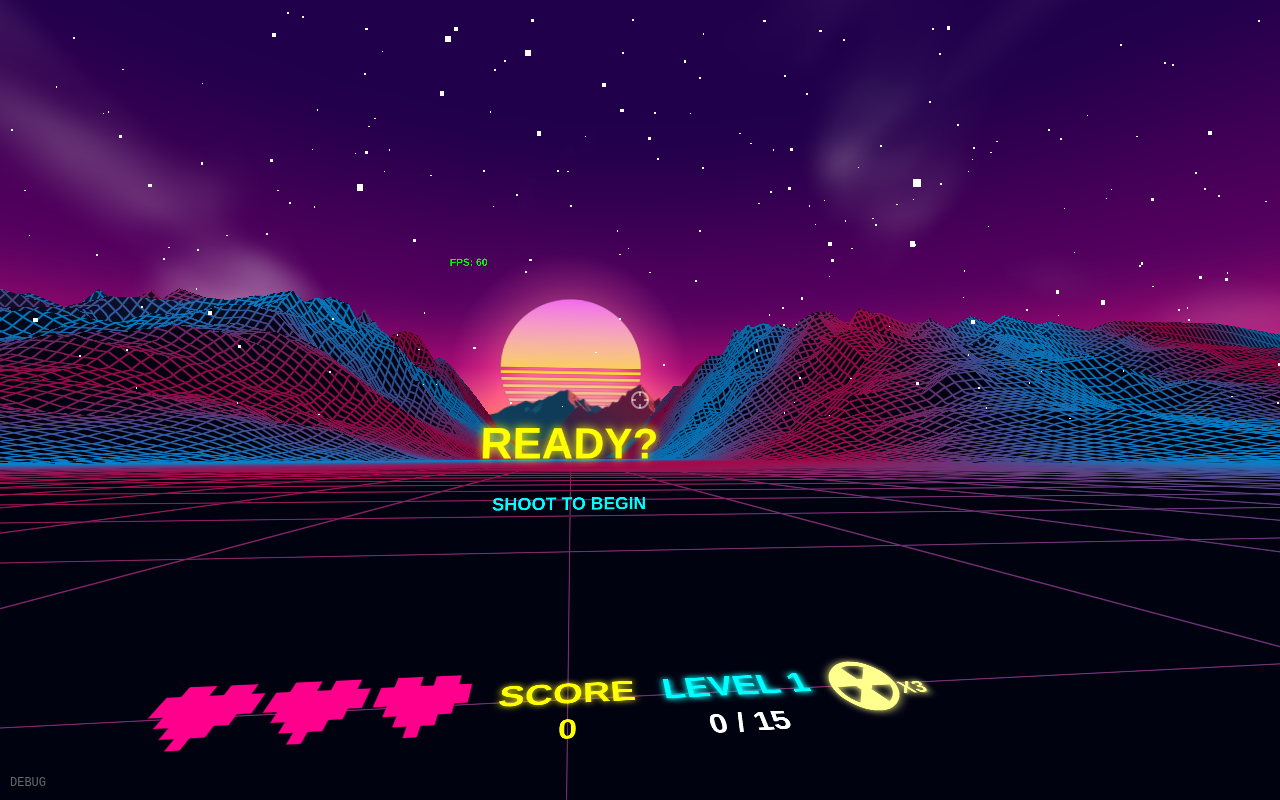
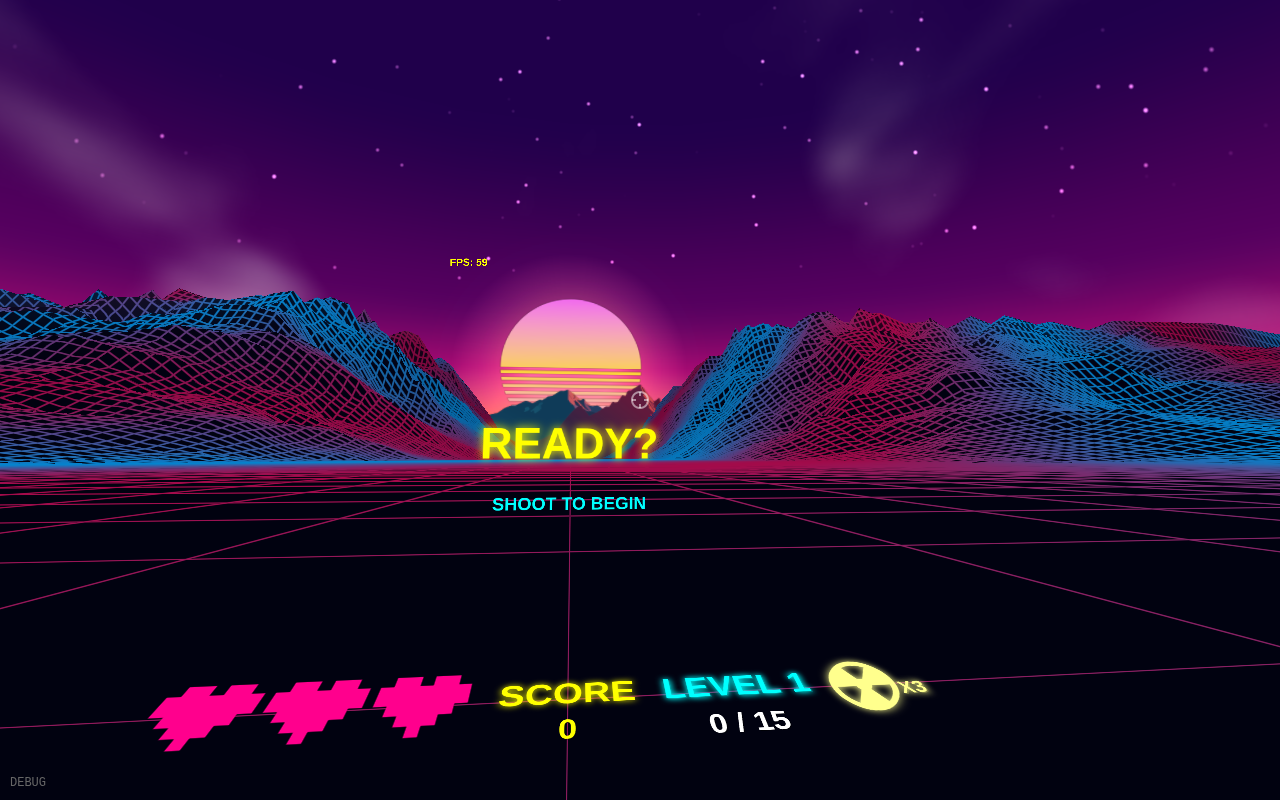
fix: Star rebuild on biome change, sphere cleanup, desert edges, name all spheres
1. Stars: rebuildStars() now called on biome change in applyThemeForLevel()
2. Spheres: explosion pool fully cleared between levels, reinitialized fresh
3. Desert: restored EdgesGeometry(geometry,14) pink wireframe outlines
4. Named all 37 SphereGeometry objects in main.js

Puppeteer: 0 page errors

Changed region(s): [[0.75, 0.5312, 1.0, 0.625], [0.2812, 0.5625, 0.3125, 0.5938], [0.125, 0.5625, 0.1562, 0.5938]]

diff --git a/main.js b/main.js
@@ -381,6 +381,7 @@ function initExplosionPool(scene) {
       depthWrite: false, blending: THREE.AdditiveBlending,
     });
     const mesh = new THREE.Mesh(_explosionGeo, mat);
+    mesh.name = `explosion-pool-${i}`;
     mesh.visible = false;
     mesh.renderOrder = 900;
     scene.add(mesh);
@@ -1955,6 +1956,13 @@ function applyThemeForLevel(level) {
     floorMaterial.__fadeBase = floorMaterial.opacity;
   }
 
+  // Rebuild stars when biome changes (sparkling stars for synthwave, simple stars for others)
+  const biomeId = getBiomeForLevel(level);
+  if (biomeId !== starsBiomeId) {
+    rebuildStars(theme);
+    starsBiomeId = biomeId;
+  }
+
   rebuildBiomeScene(biome, theme);
   applyBiomeLighting(biome);
 
@@ -3227,6 +3235,7 @@ function fireShield(controller, index, hand, altWeapon) {
     blending: THREE.AdditiveBlending,
   });
   const shieldMesh = new THREE.Mesh(shieldGeo, shieldMat);
+    shieldMesh.name = 'shield-energy';
   shieldMesh.position.copy(playerPos);
   shieldMesh.renderOrder = 500;
   scene.add(shieldMesh);
@@ -3391,9 +3400,11 @@ function spawnSingleLaserMine(position, hand, altWeapon) {
     side: THREE.BackSide,
   });
   const glowMesh = new THREE.Mesh(glowGeo, glowMat);
+  glowMesh.name = 'laser-mine-glow';
   glowMesh.position.copy(position);
   glowMesh.renderOrder = 399;
   scene.add(glowMesh);
+    glowMesh.name = 'laser-mine-glow';
 
   const now = performance.now();
 
@@ -3590,6 +3601,7 @@ function fireDecoy(origin, hand, altWeapon) {
     wireframe: true,
   });
   const body = new THREE.Mesh(bodyGeo, bodyMat);
+    body.name = 'decoy-body';
   decoyGroup.add(body);
 
   // Static overlay - glitchy particles
@@ -3620,6 +3632,7 @@ function fireDecoy(origin, hand, altWeapon) {
   });
   const glow = new THREE.Mesh(glowGeo, glowMat);
   decoyGroup.add(glow);
+    glow.name = 'decoy-glow';
 
   decoyGroup.position.copy(origin);
   decoyGroup.position.y = Math.max(0.5, origin.y);  // Ensure above ground
@@ -3756,6 +3769,7 @@ function fireBlackHole(origin, direction, hand, altWeapon) {
     opacity: 0.9,
   });
   const mine = new THREE.Mesh(mineGeo, mineMat);
+    mine.name = 'black-hole-mine';
 
   // Add glow
   const glowGeo = new THREE.SphereGeometry(0.25, 8, 8);
@@ -3765,6 +3779,7 @@ function fireBlackHole(origin, direction, hand, altWeapon) {
     side: THREE.BackSide,
   });
   const glow = new THREE.Mesh(glowGeo, glowMat);
+  glow.name = 'black-hole-mine';
   mine.add(glow);
 
   mine.position.copy(origin);
@@ -3933,6 +3948,7 @@ function triggerBlackHole(mine, mineIndex) {
     opacity: 0.9,
   });
   const core = new THREE.Mesh(coreGeo, coreMat);
+  core.name = 'black-hole-core';
   bhGroup.add(core);
 
   // Outer ring - purple vortex
@@ -3943,6 +3959,7 @@ function triggerBlackHole(mine, mineIndex) {
     side: THREE.DoubleSide,
   });
   const ring = new THREE.Mesh(ringGeo, ringMat);
+  ring.name = 'black-hole-core';
   ring.rotation.x = Math.PI / 2;
   bhGroup.add(ring);
 
@@ -3986,6 +4003,7 @@ function triggerBlackHole(mine, mineIndex) {
     side: THREE.BackSide,
   });
   const glow = new THREE.Mesh(glowGeo, glowMat);
+  glow.name = 'black-hole-mine-glow';
   bhGroup.add(glow);
 
   bhGroup.position.copy(mine.mesh.position);
@@ -4079,6 +4097,7 @@ function fireNaniteSwarm(origin, hand, altWeapon) {
     blending: THREE.AdditiveBlending,
   });
   const core = new THREE.Mesh(coreGeo, coreMat);
+  core.name = 'nanite-swarm-core';
   swarmGroup.add(core);
 
   // Outer glow sphere
@@ -4090,6 +4109,7 @@ function fireNaniteSwarm(origin, hand, altWeapon) {
     blending: THREE.AdditiveBlending,
   });
   const glow = new THREE.Mesh(glowGeo, glowMat);
+  glow.name = 'nanite-swarm-core';
   swarmGroup.add(glow);
 
   // Glitter particles - golden sparkles
@@ -4103,6 +4123,7 @@ function fireNaniteSwarm(origin, hand, altWeapon) {
       blending: THREE.AdditiveBlending,
     });
     const particle = new THREE.Mesh(particleGeo, particleMat);
+    particle.name = 'nanite-swarm-particle';
 
     // Random position within sphere
     const theta = Math.random() * Math.PI * 2;
@@ -4358,6 +4379,7 @@ function fireTetherHarpoon(origin, direction, hand, altWeapon) {
       opacity: 0.7,
     });
     const particle = new THREE.Mesh(particleGeo, particleMat);
+    particle.name = 'tether-particle';
     particle.userData.offset = i / particleCount;
     particle.userData.speed = 1 + Math.random();
     tetherGroup.add(particle);
@@ -4556,6 +4578,7 @@ function firePhaseDash(controller, index, hand, altWeapon, origin, direction) {
     blending: THREE.AdditiveBlending,
   });
   const shell = new THREE.Mesh(shellGeo, shellMat);
+    shell.name = 'phase-dash-shell';
   afterimageGroup.add(shell);
 
   // Pixel dissolution effect (small cubes)
@@ -4751,6 +4774,7 @@ function fireReflectorDrone(origin, hand, altWeapon) {
     opacity: 0.8,
   });
   const core = new THREE.Mesh(coreGeo, coreMat);
+  core.name = 'reflector-drone-core';
   droneGroup.add(core);
 
   // Shimmering shield effect (semi-transparent sphere)
@@ -4763,6 +4787,7 @@ function fireReflectorDrone(origin, hand, altWeapon) {
     depthWrite: false,
   });
   const shield = new THREE.Mesh(shieldGeo, shieldMat);
+  shield.name = 'reflector-drone-core';
   droneGroup.add(shield);
 
   // Orbiting particles
@@ -4775,6 +4800,7 @@ function fireReflectorDrone(origin, hand, altWeapon) {
       opacity: 0.7,
     });
     const particle = new THREE.Mesh(particleGeo, particleMat);
+    particle.name = 'reflector-drone-particle';
     particle.userData.orbitAngle = (i / particleCount) * Math.PI * 2;
     particle.userData.orbitRadius = 0.25;
     droneGroup.add(particle);
@@ -4986,6 +5012,7 @@ function spawnReflectedProjectile(origin) {
     opacity: 0.9,
   });
   const reflectedProj = new THREE.Mesh(reflectedGeo, reflectedMat);
+    reflectedProj.name = 'reflected-projectile';
   reflectedProj.position.copy(origin);
   reflectedProj.userData.velocity = direction.clone().multiplyScalar(30);
   reflectedProj.userData.createdAt = performance.now();
@@ -5024,6 +5051,7 @@ function fireStasisField(origin, direction, hand, altWeapon) {
     blending: THREE.AdditiveBlending,
   });
   const mesh = new THREE.Mesh(geometry, material);
+  mesh.name = 'stasis-field';
   mesh.position.copy(targetPosition);
   scene.add(mesh);
 
@@ -5038,6 +5066,7 @@ function fireStasisField(origin, direction, hand, altWeapon) {
       blending: THREE.AdditiveBlending,
     });
     const particle = new THREE.Mesh(particleGeo, particleMat);
+    particle.name = 'stasis-field-particle';
 
     // Random position on sphere surface
     const theta = Math.random() * Math.PI * 2;
@@ -5109,6 +5138,7 @@ function firePlasmaOrb(origin, direction, hand, altWeapon) {
   });
   const mesh = new THREE.Mesh(geometry, material);
   mesh.position.copy(origin);
+    mesh.name = 'stasis-field';
   scene.add(mesh);
 
   // Add glow trail (smaller trailing spheres)
@@ -5122,6 +5152,7 @@ function firePlasmaOrb(origin, direction, hand, altWeapon) {
       blending: THREE.AdditiveBlending,
     });
     const trail = new THREE.Mesh(trailGeo, trailMat);
+    trail.name = 'plasma-trail';
     trail.position.copy(origin);
     trail.visible = false;
     scene.add(trail);
@@ -5319,6 +5350,7 @@ function fireGrenade(origin, direction, hand, altWeapon) {
     opacity: 0.9,
   });
   const grenade = new THREE.Mesh(grenadeGeo, grenadeMat);
+    grenade.name = 'grenade';
 
   // Add glow
   const glowGeo = new THREE.SphereGeometry(0.15, 8, 8);
@@ -5328,6 +5360,7 @@ function fireGrenade(origin, direction, hand, altWeapon) {
     side: THREE.BackSide,
   });
   const glow = new THREE.Mesh(glowGeo, glowMat);
+  glow.name = 'grenade';
   grenade.add(glow);
 
   grenade.position.copy(origin);
@@ -5449,6 +5482,7 @@ function fireProximityMine(origin, hand, altWeapon) {
     side: THREE.BackSide,
   });
   const glow = new THREE.Mesh(glowGeo, glowMat);
+  glow.name = 'proximity-mine-glow';
   mine.add(glow);
 
   // Place at ground level
@@ -5594,6 +5628,7 @@ function fireAttackDrone(origin, hand, altWeapon) {
     opacity: 0.8,
   });
   const core = new THREE.Mesh(coreGeo, coreMat);
+  core.name = 'attack-drone-core';
   droneGroup.add(core);
 
   // Outer glow
@@ -5604,6 +5639,7 @@ function fireAttackDrone(origin, hand, altWeapon) {
     side: THREE.BackSide,
   });
   const glow = new THREE.Mesh(glowGeo, glowMat);
+  glow.name = 'attack-drone-core';
   droneGroup.add(glow);
 
   // Position at player location
@@ -5688,6 +5724,7 @@ function updateAttackDrones(now, dt, playerPos) {
           opacity: 0.8,
         });
         const proj = new THREE.Mesh(projGeo, projMat);
+        proj.name = 'drone-projectile';
         proj.position.copy(drone.mesh.position);
         proj.userData.velocity = direction.clone().multiplyScalar(25);
         proj.userData.createdAt = now;
@@ -5837,6 +5874,7 @@ function fireTeleport(origin, direction, hand, altWeapon) {
     blending: THREE.AdditiveBlending,
   });
   const startEffect = new THREE.Mesh(startEffectGeo, startEffectMat);
+    startEffect.name = 'teleport-start-effect';
   startEffect.position.copy(playerPos);
   scene.add(startEffect);
 
@@ -5856,6 +5894,7 @@ function fireTeleport(origin, direction, hand, altWeapon) {
     blending: THREE.AdditiveBlending,
   });
   const endEffect = new THREE.Mesh(endEffectGeo, endEffectMat);
+    endEffect.name = 'teleport-end-effect';
   endEffect.position.copy(destination);
   scene.add(endEffect);
 
@@ -6359,11 +6398,16 @@ function clearAllAltWeaponEffects() {
   }
   explosionVisuals.length = 0;
 
-  // Deactivate all pooled explosion spheres (level transition safety)
-  for (let i = 0; i < EXPLOSION_POOL_SIZE; i++) {
-    explosionPool[i].active = false;
-    explosionPool[i].mesh.visible = false;
+  // Remove explosion pool meshes from scene and clear pool, then reinitialize
+  for (let i = 0; i < explosionPool.length; i++) {
+    if (explosionPool[i].mesh.parent) {
+      explosionPool[i].mesh.parent.remove(explosionPool[i].mesh);
+    }
+    disposeMesh(explosionPool[i].mesh);
   }
+  explosionPool.length = 0;
+  // Reinitialize pool with fresh meshes for the new level
+  if (scene) initExplosionPool(scene);
 
   // Clear active voxels
   for (let i = activeVoxels.length - 1; i >= 0; i--) {
@@ -6755,6 +6799,7 @@ function initProjectilePool() {
   const buckMat = createProjectileMaterial(0xffffff);
   registerPlayerProjectileMaterial(buckMat);
   const buckIM = new THREE.InstancedMesh(buckGeo, buckMat, 40);
+  buckIM.name = 'buckshot-instanced';
   buckIM.instanceMatrix.setUsage(THREE.DynamicDrawUsage);
   buckIM.count = 0;
   buckIM.frustumCulled = false;
@@ -7371,6 +7416,7 @@ function updateChargeVisuals(controller, index, progress) {
       depthWrite: false,
     });
     const glowSphere = new THREE.Mesh(glowGeo, glowMat);
+    glowSphere.name = 'charge-glow-sphere';
     glowSphere.position.set(0, 0, -0.1);  // In front of controller
     controller.add(glowSphere);
     chargeGlowSpheres[index] = glowSphere;
@@ -7387,6 +7433,7 @@ function updateChargeVisuals(controller, index, progress) {
         depthWrite: false,
       });
       const particle = new THREE.Mesh(particleGeo, particleMat);
+      particle.name = 'charge-particle';
       particle.userData.orbitAngle = (i / particleCount) * Math.PI * 2;
       particle.userData.orbitRadius = 0.08;
       particleGroup.add(particle);
@@ -8124,6 +8171,7 @@ if (typeof window !== 'undefined') {
       opacity: 0.7
     });
     const decoy = new THREE.Mesh(decoyGeo, decoyMat);
+    decoy.name = 'boss-decoy';
     decoy.position.copy(position);
     decoy.userData.isBossProjectile = true;
     decoy.userData.isDecoy = true;
@@ -8144,6 +8192,7 @@ if (typeof window !== 'undefined') {
       opacity: 0.9
     });
     const pulse = new THREE.Mesh(pulseGeo, pulseMat);
+    pulse.name = 'boss-pulse';
     pulse.position.copy(fromPos);
     pulse.userData.direction = direction;
     pulse.userData.speed = 15;
@@ -8165,6 +8214,7 @@ if (typeof window !== 'undefined') {
     });
     const shield = new THREE.Mesh(shieldGeo, shieldMat);
     shield.position.copy(position);
+    shield.name = 'boss-shield';
     shield.userData.isBossShield = true;
     shield.userData.isBossProjectile = true; // Can be shot down
     shield.userData.createdAt = performance.now();
@@ -8208,6 +8258,7 @@ if (typeof window !== 'undefined') {
       opacity: 0.95
     });
     const lightning = new THREE.Mesh(lightningGeo, lightningMat);
+    lightning.name = 'boss-lightning-proj';
     lightning.position.copy(fromPos);
     lightning.userData.direction = direction;
     lightning.userData.speed = 20;

diff --git a/biomes/desert-night.js b/biomes/desert-night.js
@@ -113,26 +113,9 @@ export function buildDesertNightScene(group, deps) {
     group.add(terrain);
     registerFadeMaterial(material);
 
-    // Clean perimeter outline — only the outer edge, no internal triangulation diagonals.
-    // PlaneGeometry(sx+1) x (sz+1) vertex grid, after rotateX(-PI/2):
-    //   row 0 = +Z edge, row sz = -Z edge, col 0 = -X edge, col sx = +X edge
-    const cols = segmentsX + 1;
-    const rows = segmentsZ + 1;
-    const perimeterVerts = [];
-    // Bottom row (row 0): col 0..cols-1
-    for (let c = 0; c < cols; c++) perimeterVerts.push(positions.getX(c), positions.getY(c), positions.getZ(c));
-    // Right column (col cols-1): row 1..rows-1
-    for (let r = 1; r < rows; r++) { const i = r * cols + (cols - 1); perimeterVerts.push(positions.getX(i), positions.getY(i), positions.getZ(i)); }
-    // Top row (row rows-1): col cols-2..0 (reversed)
-    for (let c = cols - 2; c >= 0; c--) { const i = (rows - 1) * cols + c; perimeterVerts.push(positions.getX(i), positions.getY(i), positions.getZ(i)); }
-    // Left column (col 0): row rows-2..1 (reversed)
-    for (let r = rows - 2; r >= 1; r--) { const i = r * cols; perimeterVerts.push(positions.getX(i), positions.getY(i), positions.getZ(i)); }
-
-    const outlineGeo = new THREE.BufferGeometry();
-    outlineGeo.name = `biome-desert-dune-outline-geo-${panelIndex}`;
-    outlineGeo.setAttribute('position', new THREE.Float32BufferAttribute(perimeterVerts, 3));
-    const outline = new THREE.LineLoop(
-      outlineGeo,
+    // Outline the dune crests with a saturated pink so the desert keeps a stylized neon read.
+    const outline = new THREE.LineSegments(
+      new THREE.EdgesGeometry(geometry, 14),
       new THREE.LineBasicMaterial({
         color: duneOutlineColor,
         transparent: true,
